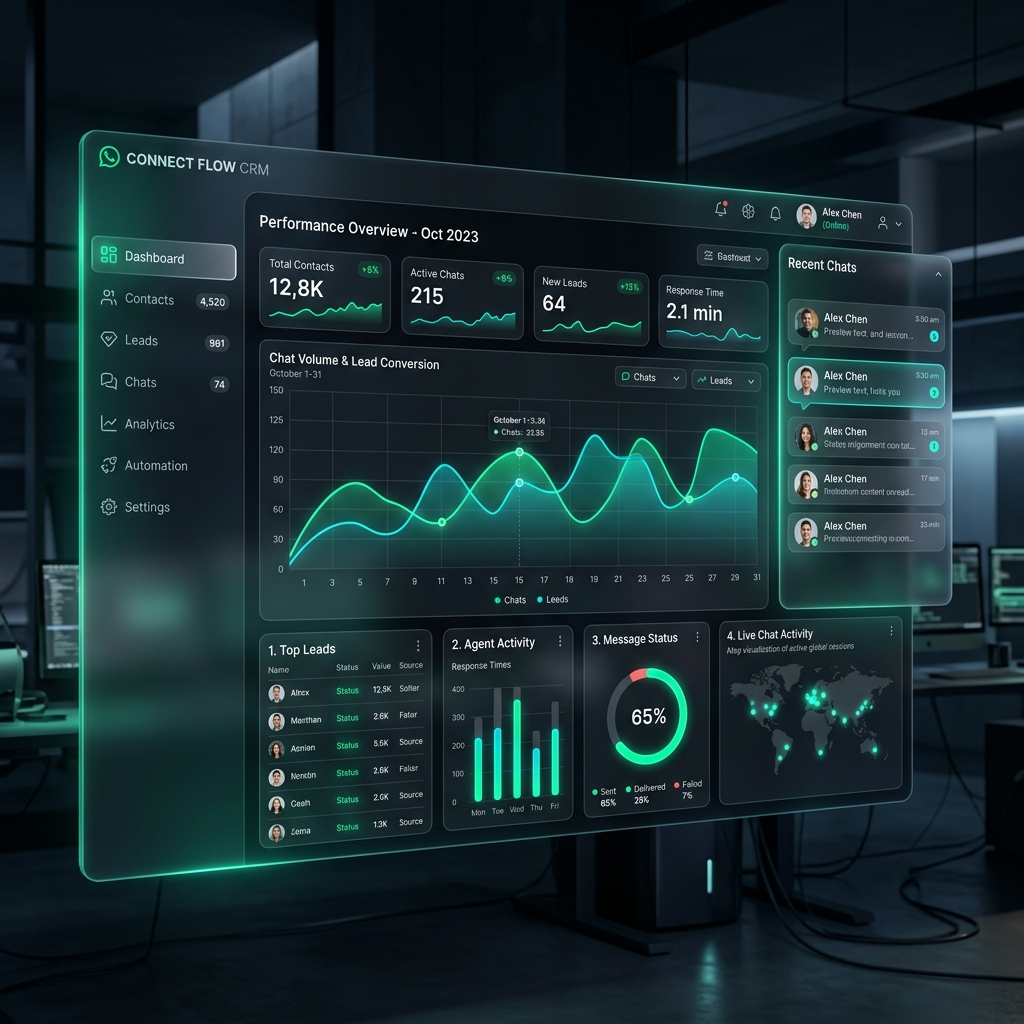
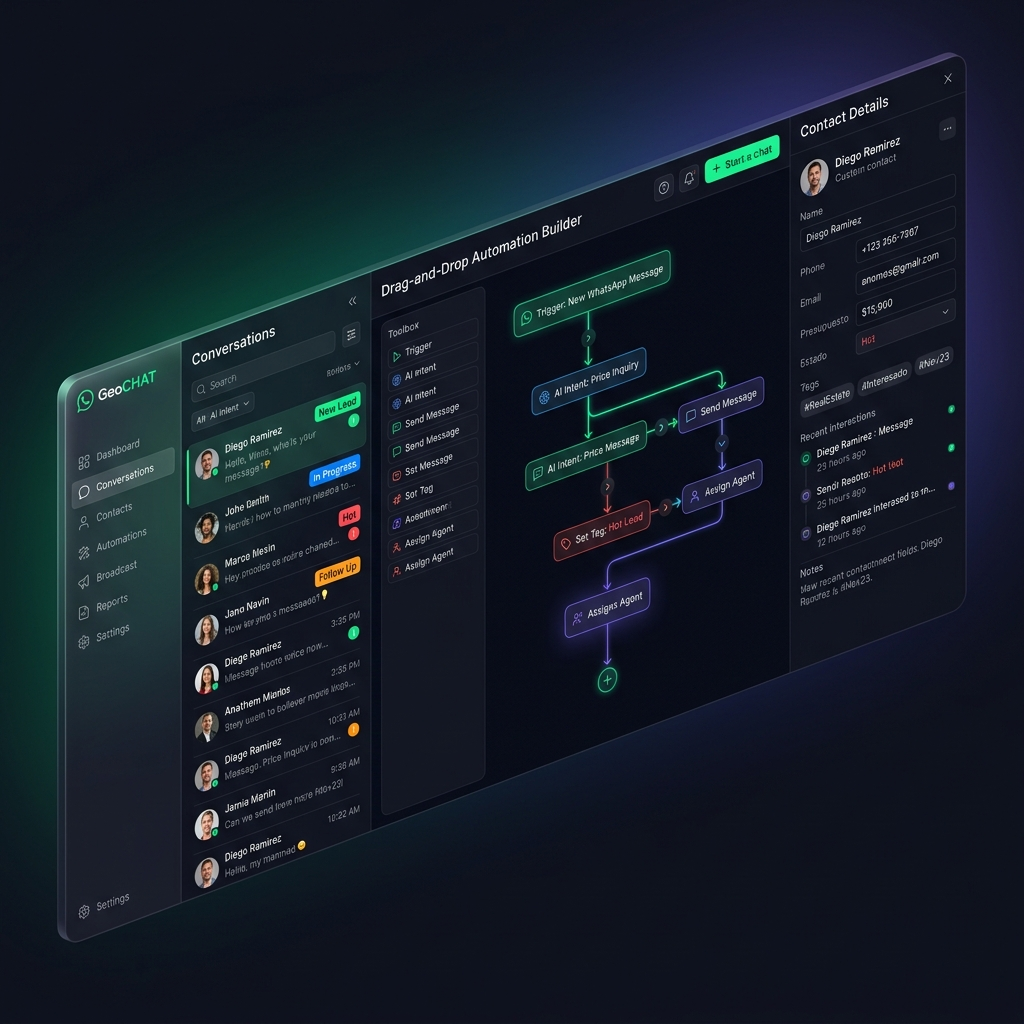
feat: add new landing page component with dashboard mockup assets

diff --git a/frontend/src/components/LandingPage.jsx b/frontend/src/components/LandingPage.jsx
@@ -1,6 +1,6 @@
 import React from 'react';
 import { Link } from 'react-router-dom';
-import { ArrowRight, MessageSquare, Clock, ShieldCheck, Sparkles } from 'lucide-react';
+import { ArrowRight } from 'lucide-react';
 import PublicLayout from './PublicLayout';
 
 const T = {
@@ -14,21 +14,13 @@ const T = {
 export default function LandingPage() {
   return (
     <PublicLayout>
-      <style>{`
-        @media(max-width:900px){
-          .hero-container { padding: 4rem 1.5rem!important; }
-          .offers-grid { grid-template-columns: 1fr!important; }
-        }
-      `}</style>
-
-      {/* ══ SECCIÓN PRINCIPAL (HERO) ══ */}
-      <section className="hero-container" style={{ 
-        minHeight: '75vh', 
+      <section style={{ 
+        minHeight: '80vh', 
         display: 'flex', 
         flexDirection: 'column',
         alignItems: 'center', 
         justifyContent: 'center',
-        padding: '7rem 1.5rem 5rem', 
+        padding: '6rem 1.5rem', 
         background: 'linear-gradient(155deg,#e6f6f0 0%,#ffffff 50%,#ffffff 100%)', 
         position: 'relative', 
         overflow: 'hidden',
@@ -38,26 +30,20 @@ export default function LandingPage() {
         <div style={{ position: 'absolute', top: -140, right: -140, width: 560, height: 560, borderRadius: '50%', background: 'radial-gradient(circle,rgba(45,157,120,.08),transparent 68%)', pointerEvents: 'none' }} />
         <div style={{ position: 'absolute', bottom: -200, left: -100, width: 640, height: 640, borderRadius: '50%', background: 'radial-gradient(circle,rgba(30,27,75,.03),transparent 68%)', pointerEvents: 'none' }} />
 
-        <div style={{ maxWidth: 850, position: 'relative', zIndex: 1 }}>
-          
-          {/* Badge superior no técnico */}
-          <div style={{ display: 'inline-flex', alignItems: 'center', gap: '.5rem', background: 'rgba(45,157,120,0.08)', border: '1px solid rgba(45,157,120,0.2)', padding: '.45rem 1.1rem', borderRadius: 100, fontSize: '.76rem', fontWeight: 800, color: T.emerald, marginBottom: '2rem', letterSpacing: '.03em' }}>
-            🚀 LA FORMA MÁS FÁCIL DE VENDER POR WHATSAPP
-          </div>
-
-          <h1 style={{ fontSize: 'clamp(2.4rem, 5.5vw, 4.2rem)', fontWeight: 900, lineHeight: 1.1, color: T.primary, letterSpacing: '-0.04em', marginBottom: '1.5rem' }}>
-            Multiplica tus ventas por WhatsApp<br />
+        <div style={{ maxWidth: 800, position: 'relative', zIndex: 1 }}>
+          <h1 style={{ fontSize: 'clamp(2.5rem, 6vw, 4.5rem)', fontWeight: 900, lineHeight: 1.1, color: T.primary, letterSpacing: '-0.04em', marginBottom: '1.5rem' }}>
+            Tus ventas en WhatsApp,<br />
             <span style={{ background: `linear-gradient(135deg,${T.emerald},#1b5e48,#1e1b4b)`, WebkitBackgroundClip: 'text', WebkitTextFillColor: 'transparent' }}>
-              sin perder ningún cliente.
+              automatizadas con IA.
             </span>
           </h1>
 
-          <p style={{ fontSize: '1.08rem', color: T.secondary, lineHeight: 1.6, marginBottom: '3rem', maxWidth: 620, margin: '0 auto 3rem', fontWeight: 500 }}>
-            Conecta a todos tus vendedores a un solo número de WhatsApp. Deja que un asistente virtual inteligente atienda las dudas de tus clientes al instante las 24 horas y organice tus chats automáticamente.
+          <p style={{ fontSize: '1.1rem', color: T.secondary, lineHeight: 1.6, marginBottom: '3rem', maxWidth: 580, margin: '0 auto 3rem', fontWeight: 500 }}>
+            Conecta tu equipo a un solo número de WhatsApp. Deja que nuestro Agente de IA califique clientes, responda preguntas usando tus propios PDFs y guarde datos estructurados directamente en tu CRM.
           </p>
 
           {/* Botones clave */}
-          <div style={{ display: 'flex', gap: '1rem', justifyContent: 'center', flexWrap: 'wrap', marginBottom: '2.5rem' }}>
+          <div style={{ display: 'flex', gap: '1rem', justifyContent: 'center', flexWrap: 'wrap' }}>
             <Link to="/inversion" style={{ textDecoration: 'none', padding: '1.05rem 2.4rem', background: T.emerald, color: '#fff', borderRadius: 100, fontWeight: 800, fontSize: '.95rem', display: 'inline-flex', alignItems: 'center', gap: '.5rem', transition: 'all 0.25s', boxShadow: '0 4px 14px rgba(45,157,120,.25)' }}
               onMouseEnter={e => e.currentTarget.style.background = T.emeraldHover}
               onMouseLeave={e => e.currentTarget.style.background = T.emerald}>
@@ -69,94 +55,6 @@ export default function LandingPage() {
               Ver Sistemas
             </Link>
           </div>
-
-          {/* Beneficios directos */}
-          <div style={{ display: 'flex', gap: '2rem', justifyContent: 'center', flexWrap: 'wrap', borderTop: '1px solid #f1f5f9', paddingTop: '1.5rem' }}>
-            <div style={{ display: 'flex', alignItems: 'center', gap: '.4rem', fontSize: '.8rem', fontWeight: 700, color: T.secondary }}>
-              ✓ Cero configuraciones difíciles
-            </div>
-            <div style={{ display: 'flex', alignItems: 'center', gap: '.4rem', fontSize: '.8rem', fontWeight: 700, color: T.secondary }}>
-              ✓ Atiende en equipo desde PC o celular
-            </div>
-            <div style={{ display: 'flex', alignItems: 'center', gap: '.4rem', fontSize: '.8rem', fontWeight: 700, color: T.secondary }}>
-              ✓ Asistente inteligente 24/7
-            </div>
-          </div>
-        </div>
-      </section>
-
-      {/* ══ QUÉ OFRECEMOS (EXPLICADO PARA CLIENTES) ══ */}
-      <section style={{ padding: '5rem 1.5rem', background: '#ffffff', borderTop: '1px solid #f1f5f9' }}>
-        <div style={{ maxWidth: 1100, margin: '0 auto', textAlign: 'center' }}>
-          
-          <div style={{ marginBottom: '4.5rem' }}>
-            <span style={{ color: T.emerald, fontWeight: 850, fontSize: '.78rem', letterSpacing: '.15em', textTransform: 'uppercase' }}>¿QUÉ HACE GEUCHAT POR TU NEGOCIO?</span>
-            <h2 style={{ fontSize: 'clamp(1.8rem, 4vw, 2.4rem)', fontWeight: 900, color: T.primary, marginTop: '.5rem', letterSpacing: '-0.02em' }}>
-              Todo lo que necesitas para vender más por WhatsApp
-            </h2>
-          </div>
-
-          <div className="offers-grid" style={{ display: 'grid', gridTemplateColumns: '1fr 1fr 1fr', gap: '2rem' }}>
-            
-            {/* Beneficio 1 */}
-            <div style={{ background: '#f8fafc', border: '1px solid #f1f5f9', borderRadius: 24, padding: '2.5rem 2rem', textAlign: 'center' }}>
-              <div style={{ background: 'rgba(45,157,120,0.08)', color: T.emerald, width: 48, height: 48, borderRadius: 14, display: 'flex', alignItems: 'center', justifyContent: 'center', marginBottom: '1.5rem', marginLeft: 'auto', marginRight: 'auto' }}>
-                <MessageSquare size={22} />
-              </div>
-              <h3 style={{ fontSize: '1.15rem', fontWeight: 900, color: T.primary, marginBottom: '.75rem' }}>Un solo número de WhatsApp para todos</h3>
-              <p style={{ fontSize: '.85rem', color: T.secondary, lineHeight: 1.6, fontWeight: 500, margin: 0 }}>
-                Conecta a todos tus vendedores al mismo número de WhatsApp de tu empresa. Atiendan juntos desde sus computadoras o celulares, organicen chats y compartan la carga de trabajo de forma ordenada.
-              </p>
-            </div>
-
-            {/* Beneficio 2 */}
-            <div style={{ background: '#f8fafc', border: '1px solid #f1f5f9', borderRadius: 24, padding: '2.5rem 2rem', textAlign: 'center' }}>
-              <div style={{ background: 'rgba(45,157,120,0.08)', color: T.emerald, width: 48, height: 48, borderRadius: 14, display: 'flex', alignItems: 'center', justifyContent: 'center', marginBottom: '1.5rem', marginLeft: 'auto', marginRight: 'auto' }}>
-                <Clock size={22} />
-              </div>
-              <h3 style={{ fontSize: '1.15rem', fontWeight: 900, color: T.primary, marginBottom: '.75rem' }}>Respuestas al instante día y noche</h3>
-              <p style={{ fontSize: '.85rem', color: T.secondary, lineHeight: 1.6, fontWeight: 500, margin: 0 }}>
-                Tu asistente virtual responde de forma automática preguntas comunes sobre tus precios, horarios, ubicaciones o servicios. Funciona las 24 horas del día, incluso los fines de semana.
-              </p>
-            </div>
-
-            {/* Beneficio 3 */}
-            <div style={{ background: '#f8fafc', border: '1px solid #f1f5f9', borderRadius: 24, padding: '2.5rem 2rem', textAlign: 'center' }}>
-              <div style={{ background: 'rgba(45,157,120,0.08)', color: T.emerald, width: 48, height: 48, borderRadius: 14, display: 'flex', alignItems: 'center', justifyContent: 'center', marginBottom: '1.5rem', marginLeft: 'auto', marginRight: 'auto' }}>
-                <ShieldCheck size={22} />
-              </div>
-              <h3 style={{ fontSize: '1.15rem', fontWeight: 900, color: T.primary, marginBottom: '.75rem' }}>Cero pérdida de prospectos</h3>
-              <p style={{ fontSize: '.85rem', color: T.secondary, lineHeight: 1.6, fontWeight: 500, margin: 0 }}>
-                El asistente guarda automáticamente los datos clave del cliente (como su nombre, interés o presupuesto) directamente en su ficha para que tus vendedores no pierdan tiempo buscando información.
-              </p>
-            </div>
-
-          </div>
-        </div>
-      </section>
-
-      {/* ══ LLAMADO A LA ACCIÓN FINAL ══ */}
-      <section style={{ padding: '3rem 1.5rem 5rem', background: '#ffffff' }}>
-        <div style={{ 
-          maxWidth: 860, 
-          margin: '0 auto', 
-          textAlign: 'center', 
-          background: `linear-gradient(135deg, ${T.primary}, #070914)`, 
-          borderRadius: 32, 
-          padding: '4.5rem 2.5rem', 
-          boxShadow: '0 30px 80px rgba(15,23,42,0.12)' 
-        }}>
-          <h2 style={{ fontSize: 'clamp(1.7rem, 4vw, 2.3rem)', fontWeight: 900, color: '#fff', marginBottom: '1rem', letterSpacing: '-0.02em' }}>
-            Empieza a automatizar tu WhatsApp hoy mismo
-          </h2>
-          <p style={{ color: 'rgba(255,255,255,.7)', fontSize: '.95rem', marginBottom: '2.5rem', maxWidth: 450, margin: '0 auto 2.5rem', lineHeight: 1.5 }}>
-            Únete a los negocios que atienden a sus clientes al instante y multiplican sus ventas sin esfuerzo.
-          </p>
-          <Link to="/inversion" style={{ display: 'inline-flex', alignItems: 'center', gap: '.6rem', textDecoration: 'none', padding: '1.05rem 2.5rem', background: '#ffffff', color: T.emerald, borderRadius: 100, fontWeight: 800, fontSize: '.92rem', boxShadow: '0 8px 24px rgba(0,0,0,.15)', transition: 'all 0.3s' }}
-            onMouseEnter={e => { e.currentTarget.style.transform = 'scale(1.03)'; e.currentTarget.style.background = '#f8fafc'; }}
-            onMouseLeave={e => { e.currentTarget.style.transform = 'scale(1)'; e.currentTarget.style.background = '#ffffff'; }}>
-            Comenzar Prueba Gratis <ArrowRight size={16} />
-          </Link>
         </div>
       </section>
     </PublicLayout>
